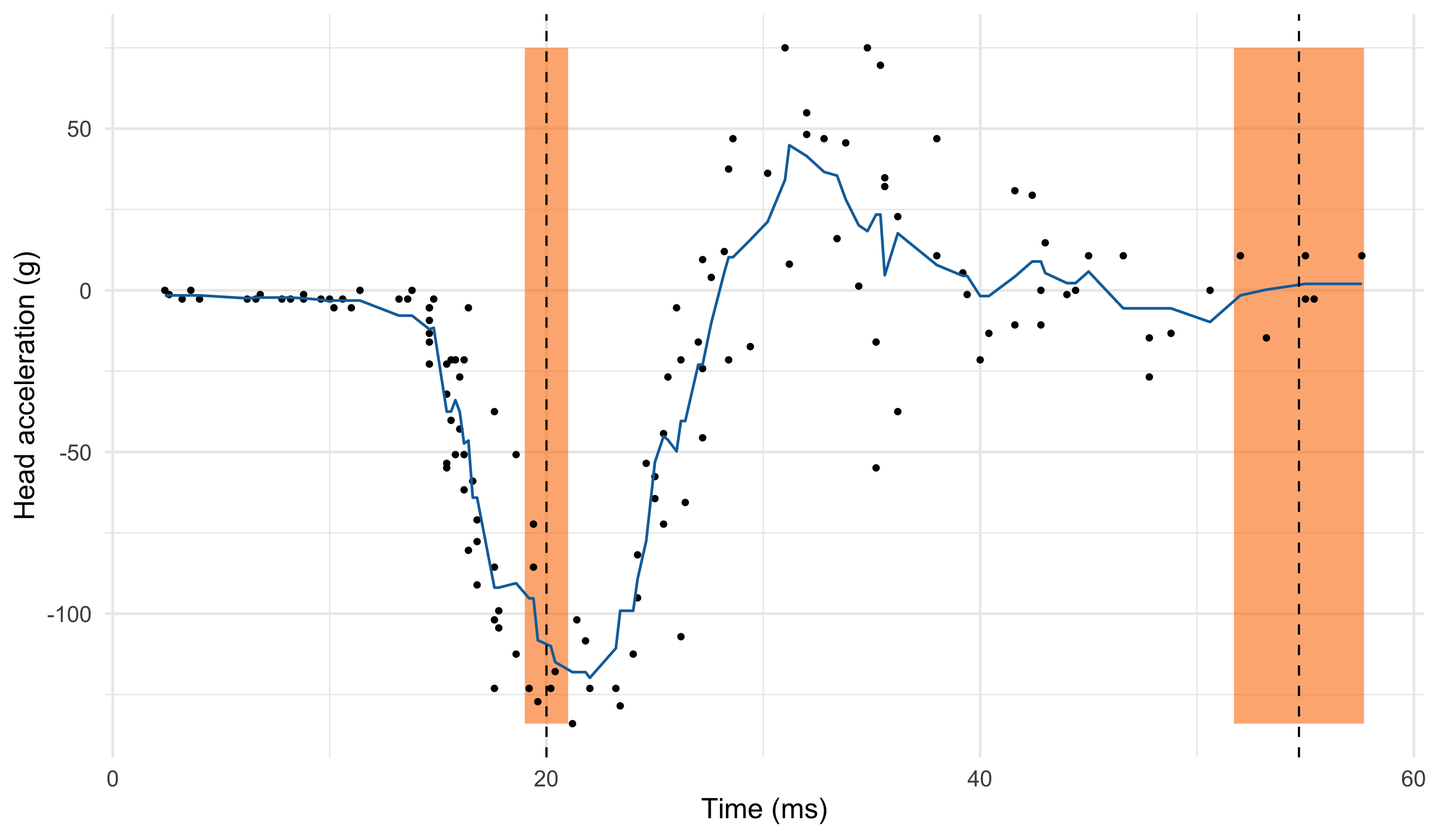
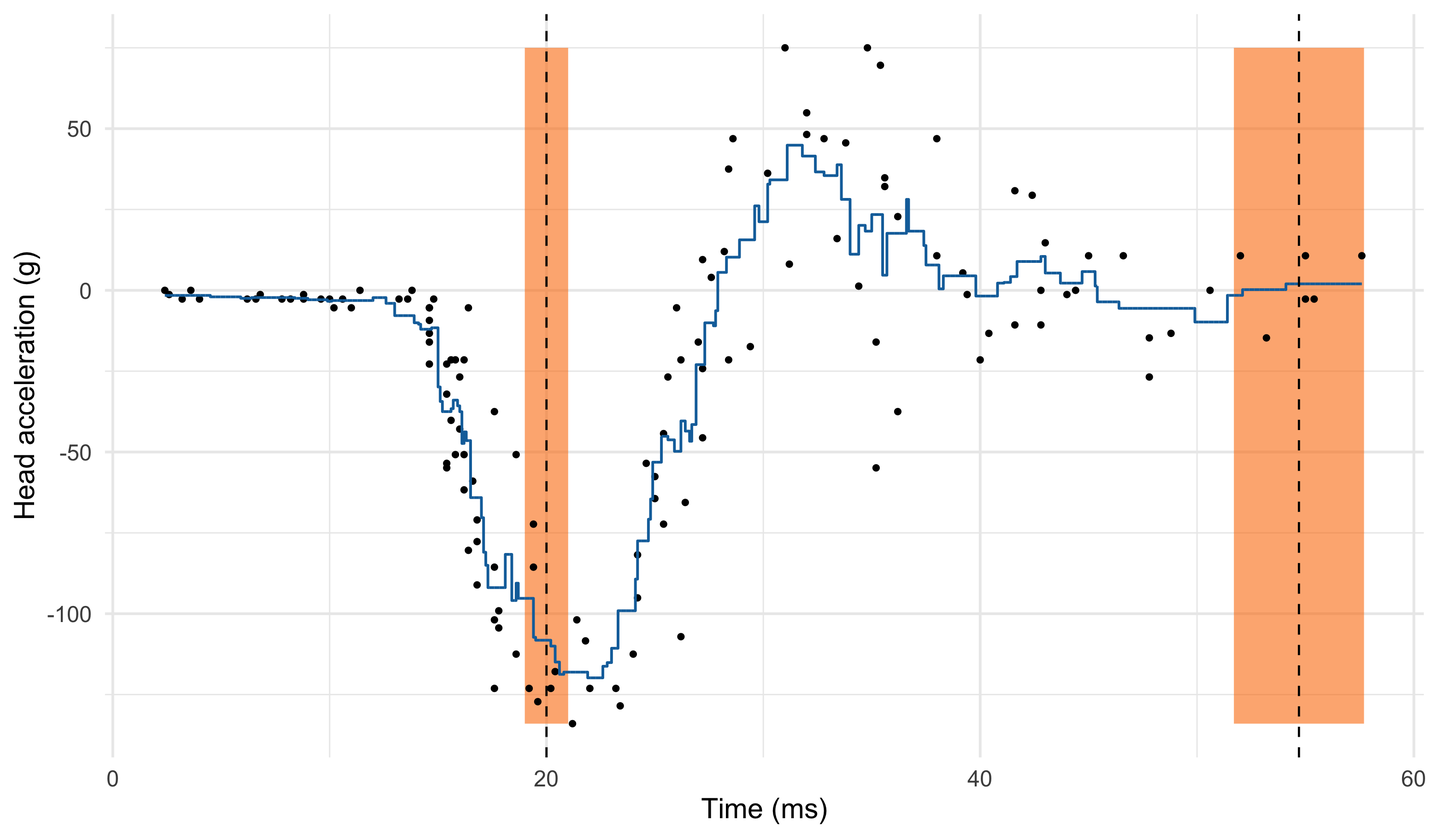
asd

diff --git a/slides/un_D.html b/slides/un_D.html
@@ -74,8 +74,13 @@ ul.task-list li input[type="checkbox"] {
   </ul></li>
   <li><a href="#local-regression" id="toc-local-regression" class="nav-link" data-scroll-target="#local-regression">Local regression</a>
   <ul class="collapse">
+  <li><a href="#the-regression-function" id="toc-the-regression-function" class="nav-link" data-scroll-target="#the-regression-function">The regression function</a></li>
+  <li><a href="#local-estimates-of-the-prediction" id="toc-local-estimates-of-the-prediction" class="nav-link" data-scroll-target="#local-estimates-of-the-prediction">Local estimates of the prediction</a></li>
+  <li><a href="#k-nearest-neighbours" id="toc-k-nearest-neighbours" class="nav-link" data-scroll-target="#k-nearest-neighbours">K-nearest neighbours</a></li>
   <li><a href="#k-nearest-neighbours-k-6" id="toc-k-nearest-neighbours-k-6" class="nav-link" data-scroll-target="#k-nearest-neighbours-k-6">K-nearest neighbours (<span class="math inline">k = 6</span>)</a></li>
+  <li><a href="#limitations-of-the-k-nearest-neighbor-method" id="toc-limitations-of-the-k-nearest-neighbor-method" class="nav-link" data-scroll-target="#limitations-of-the-k-nearest-neighbor-method">Limitations of the <span class="math inline">k</span>-nearest neighbor method</a></li>
   <li><a href="#nadaraya-watson-estimator" id="toc-nadaraya-watson-estimator" class="nav-link" data-scroll-target="#nadaraya-watson-estimator">Nadaraya-Watson estimator</a></li>
+  <li><a href="#nadaraya-watson-estimator-ii" id="toc-nadaraya-watson-estimator-ii" class="nav-link" data-scroll-target="#nadaraya-watson-estimator-ii">Nadaraya-Watson estimator II</a></li>
   <li><a href="#local-linear-regression-i" id="toc-local-linear-regression-i" class="nav-link" data-scroll-target="#local-linear-regression-i">Local linear regression I</a></li>
   <li><a href="#local-linear-regression-ii" id="toc-local-linear-regression-ii" class="nav-link" data-scroll-target="#local-linear-regression-ii">Local linear regression II</a></li>
   <li><a href="#local-linear-regression-iii" id="toc-local-linear-regression-iii" class="nav-link" data-scroll-target="#local-linear-regression-iii">Local linear regression III</a></li>
@@ -94,6 +99,7 @@ ul.task-list li input[type="checkbox"] {
   <li><a href="#regression-splines" id="toc-regression-splines" class="nav-link" data-scroll-target="#regression-splines">Regression splines</a></li>
   <li><a href="#smoothing-splines" id="toc-smoothing-splines" class="nav-link" data-scroll-target="#smoothing-splines">Smoothing splines</a></li>
   <li><a href="#penalized-splines" id="toc-penalized-splines" class="nav-link" data-scroll-target="#penalized-splines">Penalized splines</a></li>
+  <li><a href="#references" id="toc-references" class="nav-link" data-scroll-target="#references">References</a></li>
   </ul>
 <div class="quarto-alternate-formats"><h2>Other Formats</h2><ul><li><a href="un_D_slides.html"><i class="bi bi-file-slides"></i>RevealJS</a></li></ul></div></nav>
 </div>
@@ -151,7 +157,7 @@ ul.task-list li input[type="checkbox"] {
   Y_i = f(\bm{x}_i) + \epsilon_i, \qquad
   </span> where <span class="math inline">\epsilon_i</span> are <span class="orange">iid</span> with <span class="math inline">\mathbb{E}(\epsilon_i) = 0</span> and <span class="math inline">\text{var}(\epsilon_i) = \sigma^2</span>.</p></li>
 <li><p>We do not believe <span class="math inline">f(\bm{x})</span> is a polynomial or any other parametric function.</p></li>
-<li><p>Can we fit a <span class="blue">nonparametric</span> relationship that does <span class="orange">not</span> make strong <span class="orange">assumptions</span> on <span class="math inline">f(\bm{x})</span>?</p></li>
+<li><p>Can we fit a <span class="blue">nonparametric</span> relationship that does <span class="orange">not</span> make strong <span class="orange">assumptions</span> on <span class="math inline">f(\bm{x})</span>? Let us review some old dataset…</p></li>
 </ul>
 </div>
 </div>
@@ -176,7 +182,7 @@ ul.task-list li input[type="checkbox"] {
 <li><p>We assume, as before, that the data are generated according to <span class="math display">
     Y_i = f(x_i) + \epsilon_i, \quad i=1,\dots,n.
     </span></p></li>
-<li><p>The original data can be <a href="https://hastie.su.domains/CASI_files/DATA/cholesterol.txt">found here</a>.</p></li>
+<li><p>In <a href="un_B.html#another-example-cholesterol-data">Unit B</a> we fit a <span class="orange">polynomial</span> with degree <span class="math inline">3</span>, although there was some <span class="blue">uncertainty</span>.</p></li>
 </ul>
 </div>
 </div>
@@ -192,12 +198,13 @@ ul.task-list li input[type="checkbox"] {
 </div>
 </div><div class="column" style="width:60%;">
 <ul>
-<li><p>Let us consider the variables <code>city.distance</code> (<span class="math inline">y</span>) and <code>engine.size</code> (<span class="math inline">x</span>).</p></li>
-<li><p>A <span class="blue">simple linear regression</span> <span class="math display">
-Y_i = \beta_1 + \beta_2 x_i + \epsilon_i, \qquad i=1,\dots,n,
-</span> could be easily fit by least squares…</p></li>
-<li><p>… but the plot clearly suggests that the relationship between <code>city.distance</code> and <code>engine.size</code> is <span class="orange">not</span> well approximated by a <span class="orange">linear</span> function.</p></li>
-<li><p>… and also that <code>fuel</code> has an non-negligible effect on the response.</p></li>
+<li><p>In <a href="un_A.html">Unit A</a> we considered the <code>auto</code> dataset.</p></li>
+<li><p>We wanted to model the relationship between <code>city.distance</code> (<span class="math inline">y</span>) and <code>engine.size</code> (<span class="math inline">x</span>).</p></li>
+<li><p>The chosen model involved a <span class="blue">non-linear</span> function <span class="math display">
+Y_i = f(x_i) + \epsilon_i, \qquad i=1,\dots,n,
+</span> where <span class="math inline">f(x)</span> was “manually” selected.</p></li>
+<li><p>There are <span class="orange">no</span> specific reasons to believe that <span class="math inline">f(x) = \alpha + \beta\log{x}</span> or any other <span class="orange">parametric function</span>.</p></li>
+<li><p>We would like the data to “speak for themselves”.</p></li>
 </ul>
 </div>
 </div>
@@ -228,6 +235,21 @@ Y_i = \beta_1 + \beta_2 x_i + \epsilon_i, \qquad i=1,\dots,n,
 </section>
 <section id="old-friends-polynomials" class="level2">
 <h2 class="anchored" data-anchor-id="old-friends-polynomials">Old friends: polynomials</h2>
+<ul>
+<li>In the <code>mcycle</code> dataset it is <span class="orange">not</span> obvious which <span class="orange">parametric</span> function we should consider, therefore this route is not an option.</li>
+</ul>
+<ul>
+<li><p>The <span class="orange">theory</span> says that <span class="blue">polynomials</span> can <span class="blue">approximate</span> a large class of functions, as a consequence of Taylor’s expansion theorem.</p></li>
+<li><p>In the statistical <span class="orange">practice</span>, however, polynomial regression is not very well suited for modelling complex relationships.</p></li>
+</ul>
+<ul>
+<li><p>When performing flexible regression we would expect the prediction at <span class="math inline">x_i</span> to depend on observations close to <span class="math inline">x_i</span>. However, polynomials are <span class="orange">not local</span>.</p></li>
+<li><p>Instead, in polynomial regression points that are far away from <span class="math inline">x_i</span> have a big impact on <span class="math inline">\hat{f}(x_i)</span>. This produces <span class="blue">spurious oscillations</span> at the boundaries and <span class="orange">unstable</span> estimates.</p></li>
+<li><p>This is known as <a href="https://en.wikipedia.org/wiki/Runge%27s_phenomenon">Runge’s phenomenon</a> in numerical analysis.</p></li>
+</ul>
+</section>
+<section id="old-friends-polynomials-1" class="level2">
+<h2 class="anchored" data-anchor-id="old-friends-polynomials-1">Old friends: polynomials</h2>
 <div class="cell" data-layout-align="center">
 <div class="cell-output-display">
 <div class="quarto-figure quarto-figure-center">
@@ -238,15 +260,55 @@ Y_i = \beta_1 + \beta_2 x_i + \epsilon_i, \qquad i=1,\dots,n,
 </div>
 </div>
 </section>
-<section id="old-friends-polynomials-1" class="level2">
-<h2 class="anchored" data-anchor-id="old-friends-polynomials-1">Old friends: polynomials</h2>
-<ul>
-<li>asd</li>
-</ul>
-</section>
 </section>
 <section id="local-regression" class="level1">
 <h1>Local regression</h1>
+<section id="the-regression-function" class="level2">
+<h2 class="anchored" data-anchor-id="the-regression-function">The regression function</h2>
+<div class="incremental">
+<ul class="incremental">
+<li><p>Let us recall again that the only assumption we are making is that <span class="math display">
+  Y_i = f(x_i) + \epsilon_i, \qquad i=1,\dots,n,
+</span> where <span class="math inline">\epsilon_i</span> are <span class="orange">iid</span> with <span class="math inline">\mathbb{E}(\epsilon_i) = 0</span> and <span class="math inline">\text{var}(\epsilon_i) = \sigma^2</span>.</p></li>
+<li><p>In <a href="un_B.html#regression-under-quadratic-loss-ii">Unit B</a> we showed that under the following <span class="orange">quadratic loss</span><span class="math display">
+\mathbb{E}\left[\{\tilde{Y}_i - \hat{f}(x_i)\}^2\right],
+</span> the best prediction <span class="math inline">\hat{f}(x_i)</span>, i.e.&nbsp;the one minimizing the loss, coincides with <span class="math display">
+\hat{f}(x_i) = \mathbb{E}(\tilde{Y}_i) = f(x_i),
+</span> which is the <span class="blue">conditional expectation</span> of <span class="math inline">Y_i</span> given the value <span class="math inline">x_i</span>, called <span class="blue">regression function</span>.</p></li>
+<li><p>The regression function <span class="math inline">f(x_i) = \mathbb{E}(\tilde{Y}_i)</span> is the <span class="blue">optimal prediction</span> even in presence of heroschedastic data or when the above <span class="orange">additive</span> decomposition does <span class="orange">not hold</span>.</p></li>
+</ul>
+</div>
+</section>
+<section id="local-estimates-of-the-prediction" class="level2">
+<h2 class="anchored" data-anchor-id="local-estimates-of-the-prediction">Local estimates of the prediction</h2>
+<ul>
+<li><p>We do not know <span class="math inline">f(x)</span>, but the previous formulas suggest that we could consider an <span class="blue">arithmetic average</span> of the data points.</p></li>
+<li><p>Hence, a <span class="orange">prediction</span> for a generic value <span class="math inline">x</span> could be obtained as follows: <span class="math display">
+\hat{f}(x) = \frac{1}{n_x}\sum_{i : x_i = x} y_i, \qquad n_x = \sum_{i=1}^n I(x_i = x).
+</span></p></li>
+</ul>
+<ul>
+<li><p>This idea, unfortunately, <span class="orange">does not work</span> in most practical cases.</p></li>
+<li><p>Indeed, in a typical datasetit is very unlikely that there exist observations exactly equal to <span class="math inline">x</span> among the points <span class="math inline">(x_i, y_i)</span>.</p></li>
+<li><p>Even if there were values such that <span class="math inline">x_i = x</span>, the <span class="blue">sample size</span> <span class="math inline">n_x</span> would often be so <span class="orange">small</span> (e.g.&nbsp;<span class="math inline">n_x = 1</span>) that the variance of <span class="math inline">\hat{f}(x)</span> would be too high, making this estimator useless.</p></li>
+</ul>
+<ul>
+<li>On the other hand, this idea seems <span class="orange">intuitively appealing</span>. Is there a way to “fix” it?</li>
+</ul>
+</section>
+<section id="k-nearest-neighbours" class="level2">
+<h2 class="anchored" data-anchor-id="k-nearest-neighbours">K-nearest neighbours</h2>
+<ul>
+<li><p>Instead of considering the values exactly equal to <span class="math inline">x</span>, what we could do is select the pairs <span class="math inline">(x_i, y_i)</span> that are <span class="blue">close</span> to (in a <span class="orange">neighbour</span> of) <span class="math inline">x</span>.</p></li>
+<li><p>A natural measure of proximity between <span class="math inline">x</span> and the data points <span class="math inline">x_i</span> is the <span class="orange">Euclidean distance</span> <span class="math inline">|x_i - x|</span>, but in principle any other metric could be considered.</p></li>
+</ul>
+<ul>
+<li><p>We consider an average of the <span class="math inline">k</span> values <span class="math inline">y_i</span> whose <span class="math inline">x_i</span> are closest to <span class="math inline">x</span>, that is: <span class="math display">
+\hat{f}(x) = \frac{1}{|\mathcal{N}_x|}\sum_{i \in \mathcal{N}_x} y_i,
+</span> where <span class="math inline">\mathcal{N}_x</span> is the set of <span class="math inline">k</span> points nearest to <span class="math inline">x</span> in Euclidean distance.</p></li>
+<li><p>This method is called <span class="blue"><span class="math inline">k</span>-nearest neighbours</span> (KNN).</p></li>
+</ul>
+</section>
 <section id="k-nearest-neighbours-k-6" class="level2">
 <h2 class="anchored" data-anchor-id="k-nearest-neighbours-k-6">K-nearest neighbours (<span class="math inline">k = 6</span>)</h2>
 <div class="cell" data-layout-align="center">
@@ -259,8 +321,25 @@ Y_i = \beta_1 + \beta_2 x_i + \epsilon_i, \qquad i=1,\dots,n,
 </div>
 </div>
 </section>
+<section id="limitations-of-the-k-nearest-neighbor-method" class="level2">
+<h2 class="anchored" data-anchor-id="limitations-of-the-k-nearest-neighbor-method">Limitations of the <span class="math inline">k</span>-nearest neighbor method</h2>
+<ul>
+<li><p>The number of neighbours <span class="math inline">k</span> influences how “local” is the estimate.</p></li>
+<li><p>The case <span class="math inline">k = 1</span> is unsatisfactory, because the average is based on a single data point. On the other hand, the case <span class="math inline">k = n</span> produces a constant.</p></li>
+<li><p>Hence, there is a clear <span class="orange">bias-variance trade-off</span>in the choice of <span class="math inline">k</span>, which should be selected e.g.&nbsp;via <span class="blue">cross-validation</span>.</p></li>
+</ul>
+<ul>
+<li><p>The <span class="math inline">k</span>-nearest neighbours produces a <span class="blue">sensible result</span>, but the method <span class="orange">can be improved</span>.</p></li>
+<li><p>The <span class="blue">blue curve</span> is bumpy, because <span class="math inline">\hat{f}(x)</span> is <span class="orange">discontinuous</span> in <span class="math inline">x</span>.</p></li>
+<li><p>Indeed, as we move <span class="math inline">x</span> from left to right, the <span class="math inline">k</span>-nearest neighborhood remains constant, until a point <span class="math inline">x_i</span> to the right of <span class="math inline">x</span>.</p></li>
+<li><p>This discontinuity is <span class="orange">ugly</span> and <span class="orange">unnecessary</span>. We are looking instead for a <span class="blue">smooth</span> prediction.</p></li>
+</ul>
+</section>
 <section id="nadaraya-watson-estimator" class="level2">
 <h2 class="anchored" data-anchor-id="nadaraya-watson-estimator">Nadaraya-Watson estimator</h2>
+</section>
+<section id="nadaraya-watson-estimator-ii" class="level2">
+<h2 class="anchored" data-anchor-id="nadaraya-watson-estimator-ii">Nadaraya-Watson estimator II</h2>
 </section>
 <section id="local-linear-regression-i" class="level2">
 <h2 class="anchored" data-anchor-id="local-linear-regression-i">Local linear regression I</h2>
@@ -313,6 +392,9 @@ Y_i = \beta_1 + \beta_2 x_i + \epsilon_i, \qquad i=1,\dots,n,
 </section>
 <section id="penalized-splines" class="level1">
 <h1>Penalized splines</h1>
+</section>
+<section id="references" class="level1">
+<h1>References</h1>
 </section>
 
 </main>

diff --git a/slides/un_D_slides.html b/slides/un_D_slides.html
@@ -377,7 +377,7 @@
   Y_i = f(\bm{x}_i) + \epsilon_i, \qquad
   </span> where <span class="math inline">\epsilon_i</span> are <span class="orange">iid</span> with <span class="math inline">\mathbb{E}(\epsilon_i) = 0</span> and <span class="math inline">\text{var}(\epsilon_i) = \sigma^2</span>.</p></li>
 <li><p>We do not believe <span class="math inline">f(\bm{x})</span> is a polynomial or any other parametric function.</p></li>
-<li><p>Can we fit a <span class="blue">nonparametric</span> relationship that does <span class="orange">not</span> make strong <span class="orange">assumptions</span> on <span class="math inline">f(\bm{x})</span>?</p></li>
+<li><p>Can we fit a <span class="blue">nonparametric</span> relationship that does <span class="orange">not</span> make strong <span class="orange">assumptions</span> on <span class="math inline">f(\bm{x})</span>? Let us review some old dataset…</p></li>
 </ul>
 </div>
 </div>
@@ -405,7 +405,7 @@
 <li><p>We assume, as before, that the data are generated according to <span class="math display">
     Y_i = f(x_i) + \epsilon_i, \quad i=1,\dots,n.
     </span></p></li>
-<li><p>The original data can be <a href="https://hastie.su.domains/CASI_files/DATA/cholesterol.txt">found here</a>.</p></li>
+<li><p>In <a href="un_B.html#another-example-cholesterol-data">Unit B</a> we fit a <span class="orange">polynomial</span> with degree <span class="math inline">3</span>, although there was some <span class="blue">uncertainty</span>.</p></li>
 </ul>
 </div>
 </div>
@@ -421,12 +421,13 @@
 </div>
 </div><div class="column" style="width:60%;">
 <ul>
-<li><p>Let us consider the variables <code>city.distance</code> (<span class="math inline">y</span>) and <code>engine.size</code> (<span class="math inline">x</span>).</p></li>
-<li><p>A <span class="blue">simple linear regression</span> <span class="math display">
-Y_i = \beta_1 + \beta_2 x_i + \epsilon_i, \qquad i=1,\dots,n,
-</span> could be easily fit by least squares…</p></li>
-<li><p>… but the plot clearly suggests that the relationship between <code>city.distance</code> and <code>engine.size</code> is <span class="orange">not</span> well approximated by a <span class="orange">linear</span> function.</p></li>
-<li><p>… and also that <code>fuel</code> has an non-negligible effect on the response.</p></li>
+<li><p>In <a href="un_A.html">Unit A</a> we considered the <code>auto</code> dataset.</p></li>
+<li><p>We wanted to model the relationship between <code>city.distance</code> (<span class="math inline">y</span>) and <code>engine.size</code> (<span class="math inline">x</span>).</p></li>
+<li><p>The chosen model involved a <span class="blue">non-linear</span> function <span class="math display">
+Y_i = f(x_i) + \epsilon_i, \qquad i=1,\dots,n,
+</span> where <span class="math inline">f(x)</span> was “manually” selected.</p></li>
+<li><p>There are <span class="orange">no</span> specific reasons to believe that <span class="math inline">f(x) = \alpha + \beta\log{x}</span> or any other <span class="orange">parametric function</span>.</p></li>
+<li><p>We would like the data to “speak for themselves”.</p></li>
 </ul>
 </div>
 </div>
@@ -457,25 +458,109 @@ Y_i = \beta_1 + \beta_2 x_i + \epsilon_i, \qquad i=1,\dots,n,
 </section>
 <section id="old-friends-polynomials" class="slide level2 center">
 <h2>Old friends: polynomials</h2>
-
-<img data-src="un_D_files/figure-revealjs/unnamed-chunk-5-1.png" width="1560" class="r-stretch quarto-figure-center"></section>
+<ul>
+<li>In the <code>mcycle</code> dataset it is <span class="orange">not</span> obvious which <span class="orange">parametric</span> function we should consider, therefore this route is not an option.</li>
+</ul>
+<div class="fragment">
+<ul>
+<li><p>The <span class="orange">theory</span> says that <span class="blue">polynomials</span> can <span class="blue">approximate</span> a large class of functions, as a consequence of Taylor’s expansion theorem.</p></li>
+<li><p>In the statistical <span class="orange">practice</span>, however, polynomial regression is not very well suited for modelling complex relationships.</p></li>
+</ul>
+</div>
+<div class="fragment">
+<ul>
+<li><p>When performing flexible regression we would expect the prediction at <span class="math inline">x_i</span> to depend on observations close to <span class="math inline">x_i</span>. However, polynomials are <span class="orange">not local</span>.</p></li>
+<li><p>Instead, in polynomial regression points that are far away from <span class="math inline">x_i</span> have a big impact on <span class="math inline">\hat{f}(x_i)</span>. This produces <span class="blue">spurious oscillations</span> at the boundaries and <span class="orange">unstable</span> estimates.</p></li>
+<li><p>This is known as <a href="https://en.wikipedia.org/wiki/Runge%27s_phenomenon">Runge’s phenomenon</a> in numerical analysis.</p></li>
+</ul>
+</div>
+</section>
 <section id="old-friends-polynomials-1" class="slide level2 center">
 <h2>Old friends: polynomials</h2>
-<ul>
-<li>asd</li>
-</ul>
-</section></section>
+
+<img data-src="un_D_files/figure-revealjs/unnamed-chunk-5-1.png" width="1560" class="r-stretch quarto-figure-center"></section></section>
 <section>
 <section id="local-regression" class="title-slide slide level1 center">
 <h1>Local regression</h1>
 
 </section>
+<section id="the-regression-function" class="slide level2 center">
+<h2>The regression function</h2>
+<div>
+<ul>
+<li class="fragment"><p>Let us recall again that the only assumption we are making is that <span class="math display">
+  Y_i = f(x_i) + \epsilon_i, \qquad i=1,\dots,n,
+</span> where <span class="math inline">\epsilon_i</span> are <span class="orange">iid</span> with <span class="math inline">\mathbb{E}(\epsilon_i) = 0</span> and <span class="math inline">\text{var}(\epsilon_i) = \sigma^2</span>.</p></li>
+<li class="fragment"><p>In <a href="un_B.html#regression-under-quadratic-loss-ii">Unit B</a> we showed that under the following <span class="orange">quadratic loss</span><span class="math display">
+\mathbb{E}\left[\{\tilde{Y}_i - \hat{f}(x_i)\}^2\right],
+</span> the best prediction <span class="math inline">\hat{f}(x_i)</span>, i.e.&nbsp;the one minimizing the loss, coincides with <span class="math display">
+\hat{f}(x_i) = \mathbb{E}(\tilde{Y}_i) = f(x_i),
+</span> which is the <span class="blue">conditional expectation</span> of <span class="math inline">Y_i</span> given the value <span class="math inline">x_i</span>, called <span class="blue">regression function</span>.</p></li>
+<li class="fragment"><p>The regression function <span class="math inline">f(x_i) = \mathbb{E}(\tilde{Y}_i)</span> is the <span class="blue">optimal prediction</span> even in presence of heroschedastic data or when the above <span class="orange">additive</span> decomposition does <span class="orange">not hold</span>.</p></li>
+</ul>
+</div>
+</section>
+<section id="local-estimates-of-the-prediction" class="slide level2 center">
+<h2>Local estimates of the prediction</h2>
+<ul>
+<li><p>We do not know <span class="math inline">f(x)</span>, but the previous formulas suggest that we could consider an <span class="blue">arithmetic average</span> of the data points.</p></li>
+<li><p>Hence, a <span class="orange">prediction</span> for a generic value <span class="math inline">x</span> could be obtained as follows: <span class="math display">
+\hat{f}(x) = \frac{1}{n_x}\sum_{i : x_i = x} y_i, \qquad n_x = \sum_{i=1}^n I(x_i = x).
+</span></p></li>
+</ul>
+<div class="fragment">
+<ul>
+<li><p>This idea, unfortunately, <span class="orange">does not work</span> in most practical cases.</p></li>
+<li><p>Indeed, in a typical datasetit is very unlikely that there exist observations exactly equal to <span class="math inline">x</span> among the points <span class="math inline">(x_i, y_i)</span>.</p></li>
+<li><p>Even if there were values such that <span class="math inline">x_i = x</span>, the <span class="blue">sample size</span> <span class="math inline">n_x</span> would often be so <span class="orange">small</span> (e.g.&nbsp;<span class="math inline">n_x = 1</span>) that the variance of <span class="math inline">\hat{f}(x)</span> would be too high, making this estimator useless.</p></li>
+</ul>
+</div>
+<div class="fragment">
+<ul>
+<li>On the other hand, this idea seems <span class="orange">intuitively appealing</span>. Is there a way to “fix” it?</li>
+</ul>
+</div>
+</section>
+<section id="k-nearest-neighbours" class="slide level2 center">
+<h2>K-nearest neighbours</h2>
+<ul>
+<li><p>Instead of considering the values exactly equal to <span class="math inline">x</span>, what we could do is select the pairs <span class="math inline">(x_i, y_i)</span> that are <span class="blue">close</span> to (in a <span class="orange">neighbour</span> of) <span class="math inline">x</span>.</p></li>
+<li><p>A natural measure of proximity between <span class="math inline">x</span> and the data points <span class="math inline">x_i</span> is the <span class="orange">Euclidean distance</span> <span class="math inline">|x_i - x|</span>, but in principle any other metric could be considered.</p></li>
+</ul>
+<div class="fragment">
+<ul>
+<li><p>We consider an average of the <span class="math inline">k</span> values <span class="math inline">y_i</span> whose <span class="math inline">x_i</span> are closest to <span class="math inline">x</span>, that is: <span class="math display">
+\hat{f}(x) = \frac{1}{|\mathcal{N}_x|}\sum_{i \in \mathcal{N}_x} y_i,
+</span> where <span class="math inline">\mathcal{N}_x</span> is the set of <span class="math inline">k</span> points nearest to <span class="math inline">x</span> in Euclidean distance.</p></li>
+<li><p>This method is called <span class="blue"><span class="math inline">k</span>-nearest neighbours</span> (KNN).</p></li>
+</ul>
+</div>
+</section>
 <section id="k-nearest-neighbours-k-6" class="slide level2 center">
 <h2>K-nearest neighbours (<span class="math inline">k = 6</span>)</h2>
 
 <img data-src="un_D_files/figure-revealjs/unnamed-chunk-6-1.png" width="1560" class="r-stretch quarto-figure-center"></section>
+<section id="limitations-of-the-k-nearest-neighbor-method" class="slide level2 center">
+<h2>Limitations of the <span class="math inline">k</span>-nearest neighbor method</h2>
+<ul>
+<li><p>The number of neighbours <span class="math inline">k</span> influences how “local” is the estimate.</p></li>
+<li><p>The case <span class="math inline">k = 1</span> is unsatisfactory, because the average is based on a single data point. On the other hand, the case <span class="math inline">k = n</span> produces a constant.</p></li>
+<li><p>Hence, there is a clear <span class="orange">bias-variance trade-off</span>in the choice of <span class="math inline">k</span>, which should be selected e.g.&nbsp;via <span class="blue">cross-validation</span>.</p></li>
+</ul>
+<div class="fragment">
+<ul>
+<li><p>The <span class="math inline">k</span>-nearest neighbours produces a <span class="blue">sensible result</span>, but the method <span class="orange">can be improved</span>.</p></li>
+<li><p>The <span class="blue">blue curve</span> is bumpy, because <span class="math inline">\hat{f}(x)</span> is <span class="orange">discontinuous</span> in <span class="math inline">x</span>.</p></li>
+<li><p>Indeed, as we move <span class="math inline">x</span> from left to right, the <span class="math inline">k</span>-nearest neighborhood remains constant, until a point <span class="math inline">x_i</span> to the right of <span class="math inline">x</span>.</p></li>
+<li><p>This discontinuity is <span class="orange">ugly</span> and <span class="orange">unnecessary</span>. We are looking instead for a <span class="blue">smooth</span> prediction.</p></li>
+</ul>
+</div>
+</section>
 <section id="nadaraya-watson-estimator" class="slide level2 center">
 <h2>Nadaraya-Watson estimator</h2>
+</section>
+<section id="nadaraya-watson-estimator-ii" class="slide level2 center">
+<h2>Nadaraya-Watson estimator II</h2>
 </section>
 <section id="local-linear-regression-i" class="slide level2 center">
 <h2>Local linear regression I</h2>
@@ -531,6 +616,11 @@ Y_i = \beta_1 + \beta_2 x_i + \epsilon_i, \qquad i=1,\dots,n,
 
 <section id="penalized-splines" class="title-slide slide level1 center">
 <h1>Penalized splines</h1>
+
+</section>
+
+<section id="references" class="title-slide slide level1 center">
+<h1>References</h1>
 
 <img src="img/logoB.png" class="slide-logo r-stretch"><div class="footer footer-default">
 <p><a href="https://tommasorigon.github.io/datamining">Home page</a></p>
